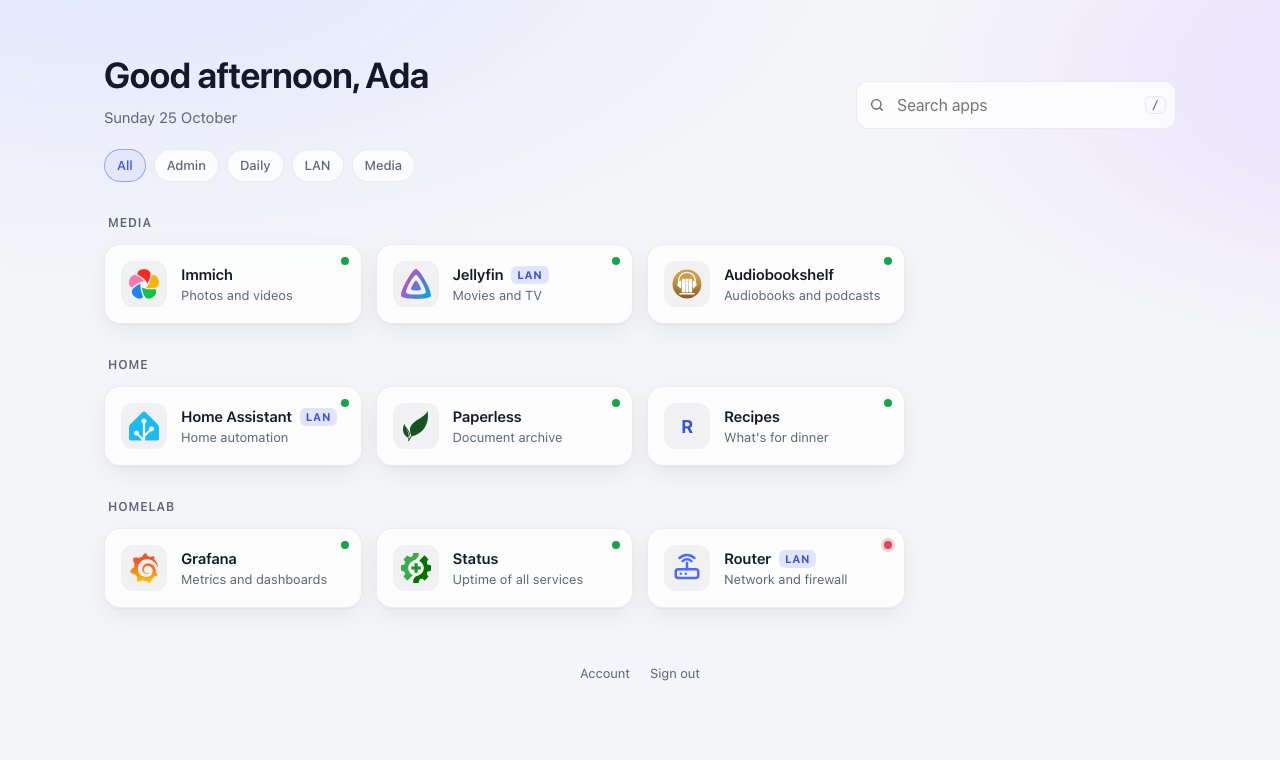
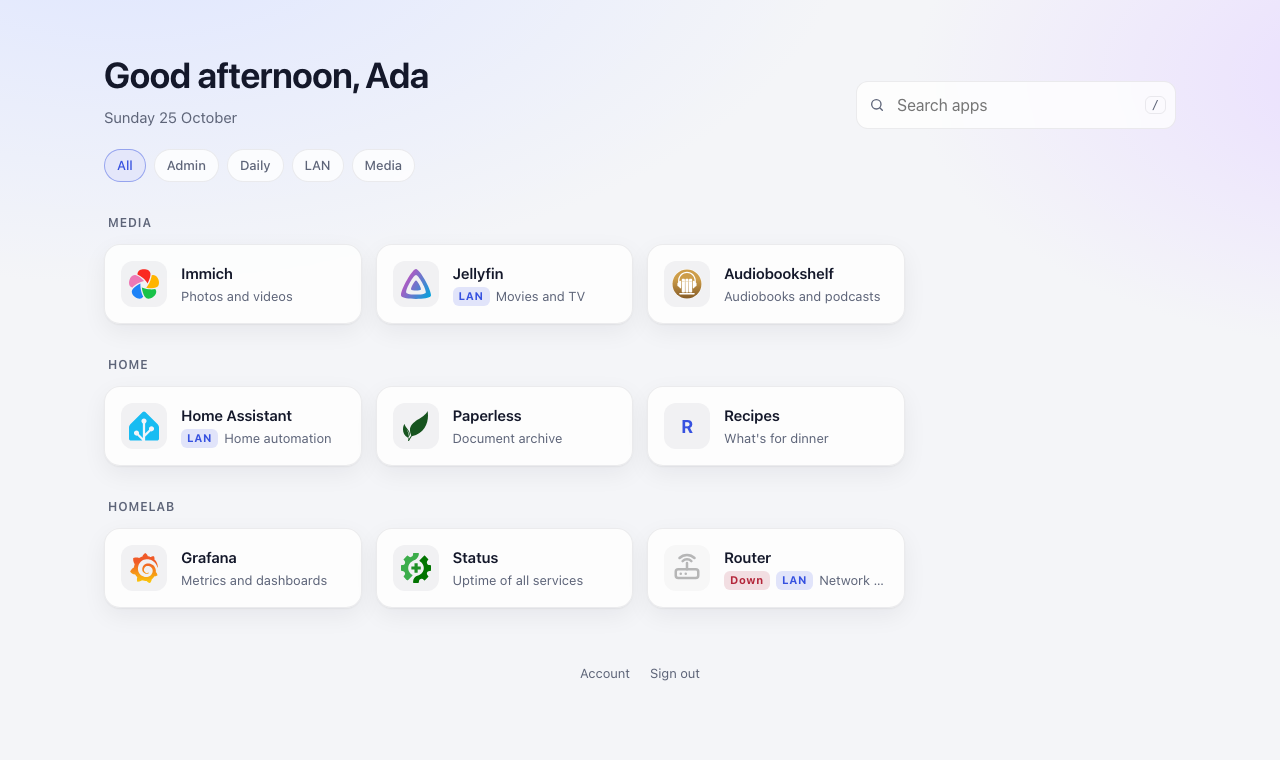
feat(site): show only down apps, badges on the description line
Status dots on every tile were noise when nearly all apps are up, and inline badges wrapped
long names onto a second line.

diff --git a/site/index.html b/site/index.html
@@ -64,6 +64,7 @@
 		--muted: #5d6478;
 		/* Darkest surface it sits on is its own 14% tint; this keeps that above 4.5:1. */
 		--accent: #3651e0;
+		--down: #b3263a;
 		--shadow: 0 1px 2px rgba(20, 24, 40, 0.06), 0 8px 24px rgba(20, 24, 40, 0.06);
 		--shadow-hover: 0 2px 4px rgba(20, 24, 40, 0.08), 0 16px 40px rgba(20, 24, 40, 0.12);
 		color-scheme: light;
@@ -79,6 +80,7 @@
 			--text: #eef0f7;
 			--muted: #9aa1b5;
 			--accent: #8ea2ff;
+			--down: #ff8a95;
 			--shadow: 0 1px 2px rgba(0, 0, 0, 0.3);
 			--shadow-hover: 0 12px 32px rgba(0, 0, 0, 0.45);
 			color-scheme: dark;
@@ -143,7 +145,6 @@
 	}
 	.grid { display: grid; grid-template-columns: repeat(auto-fill, minmax(230px, 1fr)); gap: 14px; }
 	.tile {
-		position: relative;
 		display: flex; align-items: center; gap: 14px;
 		padding: 16px;
 		border-radius: 16px;
@@ -165,19 +166,18 @@
 	.icon img { width: 30px; height: 30px; object-fit: contain; }
 	.icon span { font-weight: 700; font-size: 18px; color: var(--accent); }
 	.name { font-weight: 600; letter-spacing: -0.01em; }
-	.desc { color: var(--muted); font-size: 13px; margin-top: 1px; white-space: nowrap; overflow: hidden; text-overflow: ellipsis; }
+	/* Badges and status lead the description line, so the name never wraps for them. */
+	.desc { display: flex; align-items: center; gap: 6px; color: var(--muted); font-size: 13px; margin-top: 2px; min-width: 0; }
+	.desc-text { white-space: nowrap; overflow: hidden; text-overflow: ellipsis; min-width: 0; }
 	.meta { min-width: 0; }
 	.badge {
-		display: inline-block; margin-left: 8px; padding: 1px 6px; border-radius: 6px;
-		font-size: 11px; font-weight: 700; letter-spacing: 0.06em; vertical-align: 1px;
+		flex: none; padding: 1px 6px; border-radius: 6px;
+		font-size: 11px; font-weight: 700; letter-spacing: 0.06em;
 		color: var(--accent); background: color-mix(in srgb, var(--accent) 14%, transparent);
 	}
-	.dot {
-		position: absolute; top: 12px; right: 12px; width: 8px; height: 8px; border-radius: 50%;
-		background: var(--muted); opacity: 0.5;
-	}
-	.dot[data-health="up"] { background: #16a34a; opacity: 1; }
-	.dot[data-health="down"] { background: #d4495b; opacity: 1; box-shadow: 0 0 0 3px color-mix(in srgb, #d4495b 25%, transparent); }
+	.badge.down { color: var(--down); background: color-mix(in srgb, var(--down) 14%, transparent); }
+	/* Up is the normal case and shows nothing; only a down app changes the tile. */
+	.tile[data-health="down"] .icon { filter: grayscale(1); opacity: 0.5; }
 	.empty { color: var(--muted); margin-top: 48px; text-align: center; }
 	footer { margin-top: 56px; display: flex; gap: 20px; justify-content: center; font-size: 13px; }
 	footer a { color: var(--muted); text-decoration: none; }
@@ -251,7 +251,8 @@
 			<h2>{{ .name | html }}</h2>
 			<div class="grid">
 			{{- range .apps }}
-				<a class="tile" href="{{ .url | html }}" data-labels="{{ join " " (.labels | default list) | html }}" data-search="{{ printf "%s %s" .name .description | lower | html }}">
+				{{- $health := health .health .url }}
+				<a class="tile" href="{{ .url | html }}"{{ if $health }} data-health="{{ $health }}"{{ end }} data-labels="{{ join " " (.labels | default list) | html }}" data-search="{{ printf "%s %s" .name .description | lower | html }}">
 					<div class="icon">
 						{{- if .icon }}
 						<img src="{{ if hasPrefix "http" .icon }}{{ .icon | html }}{{ else if contains "/" .icon }}/{{ .icon | html }}{{ else }}https://cdn.jsdelivr.net/gh/homarr-labs/dashboard-icons/svg/{{ .icon | html }}.svg{{ end }}" alt="" loading="lazy" onerror="this.replaceWith(Object.assign(document.createElement('span'),{textContent:this.dataset.i}))" data-i="{{ substr 0 1 .name | html }}">
@@ -259,12 +260,13 @@
 						<span>{{ substr 0 1 .name | html }}</span>
 						{{- end }}
 					</div>
-					{{- with health .health .url }}
-					<span class="dot" data-health="{{ . }}" role="img" aria-label="{{ if eq . "up" }}Up{{ else if eq . "down" }}Down{{ else }}Not checked yet{{ end }}" title="{{ if eq . "up" }}Up{{ else if eq . "down" }}Down{{ else }}Not checked yet{{ end }}"></span>
-					{{- end }}
 					<div class="meta">
-						<div class="name">{{ .name | html }}{{ range .labels }}{{ if dig . "badge" false $labelDefs }}<span class="badge" title="{{ dig . "description" "" $labelDefs | html }}">{{ dig . "title" (upper .) $labelDefs | html }}</span>{{ end }}{{ end }}</div>
-						{{- if .description }}<div class="desc">{{ .description | html }}</div>{{ end }}
+						<div class="name">{{ .name | html }}</div>
+						<div class="desc">
+							{{- if eq $health "down" }}<span class="badge down">Down</span>{{ end }}
+							{{- range .labels }}{{ if dig . "badge" false $labelDefs }}<span class="badge" title="{{ dig . "description" "" $labelDefs | html }}">{{ dig . "title" (upper .) $labelDefs | html }}</span>{{ end }}{{ end }}
+							{{- if .description }}<span class="desc-text">{{ .description | html }}</span>{{ end }}
+						</div>
 					</div>
 				</a>
 			{{- end }}
@@ -355,17 +357,19 @@
 			if (e.key === "/" && document.activeElement !== q) { e.preventDefault(); q.focus(); }
 		});
 
-		// Health dots: re-render the page in the background and copy over only the dots, so search
-		// and filters stay as they are. The same user gets the same tiles in the same order.
-		if (document.querySelector(".dot")) setInterval(async () => {
+		// Health: re-render the page in the background and copy over only each tile's status, so
+		// search and filters stay as they are. The same user gets the same tiles in the same order.
+		if (document.querySelector(".tile[data-health]")) setInterval(async () => {
 			if (document.hidden) return;
 			try {
 				const res = await fetch(location.href, { cache: "no-store" });
 				if (!res.ok) return;
 				const fresh = [...new DOMParser().parseFromString(await res.text(), "text/html").querySelectorAll(".tile")];
 				tiles.forEach((t, i) => {
-					const now = t.querySelector(".dot"), next = fresh[i]?.href === t.href && fresh[i].querySelector(".dot");
-					if (now && next) for (const a of ["data-health", "aria-label", "title"]) now.setAttribute(a, next.getAttribute(a));
+					const next = fresh[i];
+					if (next?.href !== t.href || !next.dataset.health) return;
+					t.dataset.health = next.dataset.health;
+					t.querySelector(".desc").innerHTML = next.querySelector(".desc").innerHTML;
 				});
 			} catch (e) {}
 		}, 30000);

diff --git a/examples/apps.md b/examples/apps.md
@@ -10,7 +10,7 @@
 #           DOORMAT_GROUP_FORMAT applied to the slug (default: <slug>:member).
 #   icon:   a slug from https://github.com/homarr-labs/dashboard-icons, a path under /srv
 #           (icons/foo.png), or a full URL. Without one, the tile shows the first letter.
-#   health: shows a status dot. true checks url, a path checks that path on url's host, or a
+#   health: marks the tile when the app is down. true checks url, a path checks that path on url's host, or a
 #           full URL (e.g. an internal address). Any response below HTTP 500 counts as up.
 title: Start
 

diff --git a/README.md b/README.md
@@ -58,7 +58,7 @@ start.example.com {
 
 ## Health
 
-Add `health` to a tile for a status dot: `true` checks its `url`, `/path` checks that path on
+Add `health` to a tile to have it marked when the app is down: `true` checks its `url`, `/path` checks that path on
 the same host, a full URL checks anything else, such as an internal address. Any response below
 HTTP 500 within 5 seconds counts as up, so login redirects and 401s do too. doormat runs the
 checks itself; the page only shows their last result.
